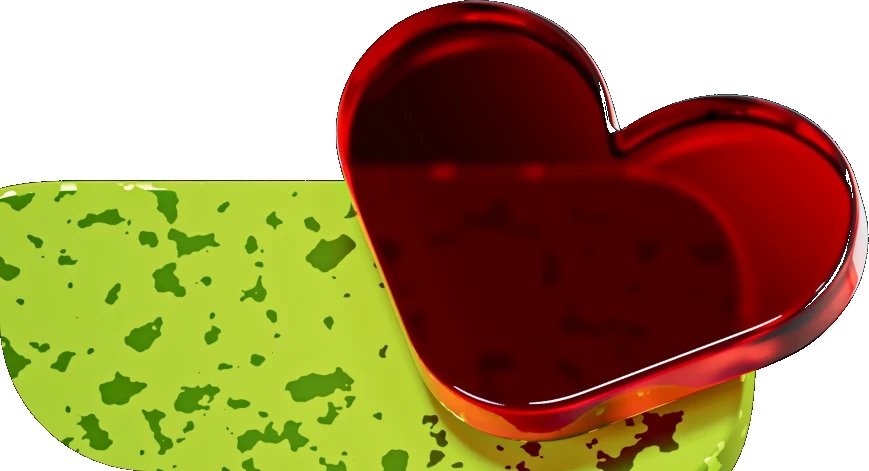
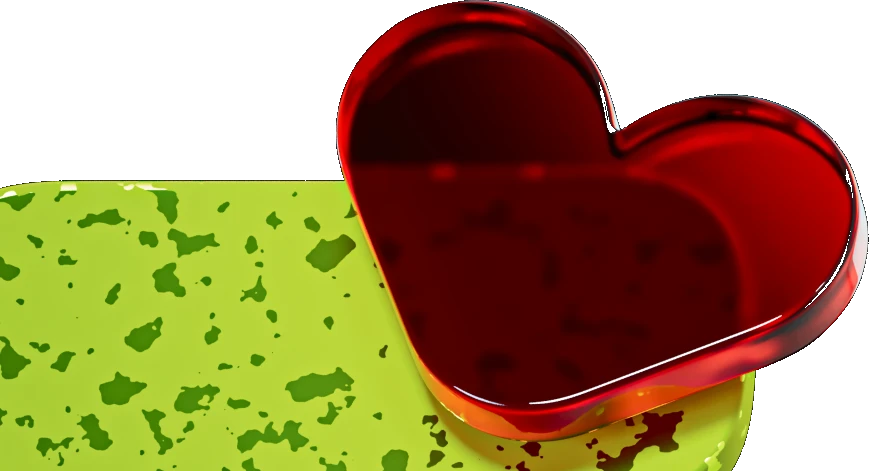
Corner the three re-exported stills and halve the orb
The client took the rounded corners off the heart, the percent and the figure in Figma, so
those three go into the bottom-left corner with no margin; the logo pair keeps its padding.
The orb is half the size and centred, with every distance constant in the shader rescaled
to match.

Changed region(s): [[0.0, 0.7431, 0.1554, 1.0]]

diff --git a/assets/js/tile-shader.js b/assets/js/tile-shader.js
@@ -83,43 +83,42 @@ if (canvas) {
         vec2 uv = (gl_FragCoord.xy - 0.5 * u_res) / size * 2.0;
         vec2 mouse = (u_mouse - 0.5 * u_res) / size * 2.0;
 
-        /* The orb sits low in the tile: the text is at the top and must stay on ink, not on
-           the body of the thing. */
-        uv.y += 0.34;
-        mouse.y += 0.34;
+        /* Centred in the tile since 2026-09-03, on the client's word, and half the size it
+           was — small enough that the text above it still sits on ink. */
 
         float t = u_time * (1.0 + 0.5 * u_hover);
 
         /* Lean toward the pointer, and ripple with it. Both are the hover alone — at rest
-           the orb is centred and smooth. */
-        uv -= 0.16 * u_hover * mouse;
-        uv += 0.022 * u_hover * sin(9.0 * uv.yx + t * 1.6);
+           the orb is centred and smooth. The lean is in uv units, so it shrank with the
+           orb; 0.10 keeps it reading as the same gesture against the smaller body. */
+        uv -= 0.10 * u_hover * mouse;
+        uv += 0.014 * u_hover * sin(14.0 * uv.yx + t * 1.6);
 
         float len = length(uv);
         float ang = atan(uv.y, uv.x);
 
         /* The breathing edge: a slow pulse plus a noise field, so the silhouette is never
            twice the same and never a circle. */
-        float n = fbm(vec3(uv * 1.6, t * 0.30));
-        float radius = 0.52 + 0.030 * sin(t * 0.9) + 0.115 * (n - 0.5) + 0.045 * u_hover;
+        float n = fbm(vec3(uv * 2.8, t * 0.30));
+        float radius = 0.27 + 0.016 * sin(t * 0.9) + 0.060 * (n - 0.5) + 0.024 * u_hover;
 
         /* Distance to the edge, which is what the rim light is attached to. */
         float edge = abs(len - radius);
-        float rim = wash(1.0, 26.0, edge) * smoothstep(radius * 1.55, radius * 0.55, len);
+        float rim = wash(1.0, 52.0, edge) * smoothstep(radius * 1.55, radius * 0.55, len);
 
         /* Two highlights orbiting inside, at different speeds and in opposite directions —
            the "thinking" motion. A third, slower one keeps the body from ever going flat. */
         vec2 p1 = vec2(cos(t * 0.62), sin(t * 0.62)) * radius * 0.62;
         vec2 p2 = vec2(cos(-t * 0.41 + 2.1), sin(-t * 0.41 + 2.1)) * radius * 0.74;
         vec2 p3 = vec2(cos(t * 0.23 + 4.0), sin(t * 0.23 + 4.0)) * radius * 0.35;
-        float l1 = lamp(0.85, 16.0, distance(uv, p1));
-        float l2 = lamp(0.65, 22.0, distance(uv, p2));
-        float l3 = lamp(0.45, 9.0, distance(uv, p3));
+        float l1 = lamp(0.85, 64.0, distance(uv, p1));
+        float l2 = lamp(0.65, 88.0, distance(uv, p2));
+        float l3 = lamp(0.45, 36.0, distance(uv, p3));
 
         /* Body and halo. The body is filled inward from the edge; the halo is what escapes
            it, and it is what makes the tile glow rather than hold a sticker. */
-        float body = smoothstep(radius + 0.02, radius - 0.30, len);
-        float halo = exp(-3.2 * max(len - radius, 0.0) * 6.0);
+        float body = smoothstep(radius + 0.01, radius - 0.15, len);
+        float halo = exp(-3.2 * max(len - radius, 0.0) * 12.0);
 
         vec3 green = vec3(0.651, 0.929, 0.0);   /* #A6ED00 */
         vec3 mint = mix(green, vec3(1.0), 0.55);

diff --git a/assets/css/base.css b/assets/css/base.css
@@ -1171,9 +1171,9 @@ img { display: block; max-width: 100%; height: auto; }
 
      | still    | object    | opaque area | visual side | height |
      | ads      | 750 × 345 | 233k px     | 483         | 24%    |
-     | bloggers | 860 × 433 | 272k px     | 522         | 28%    |
-     | loyalty  | 869 × 471 | 290k px     | 538         | 30%    |
-     | partners | 815 × 489 | 237k px     | 487         | 34%    |
+     | bloggers | 718 × 433 | 237k px     | 487         | 30%    |
+     | loyalty  | 869 × 471 | 295k px     | 543         | 30%    |
+     | partners | 815 × 489 | 240k px     | 490         | 34%    |
 
    A flat height would have made the widest, flattest one (the pair of logos) the heaviest
    thing on the screen and the tallest one the lightest. */
@@ -1194,13 +1194,23 @@ img { display: block; max-width: 100%; height: auto; }
   height: 24%;
 }
 
-.tile__art[data-art="bloggers"] {
-  background-image: url("../images/growth-bloggers.webp");
-  height: 28%;
+/* Three of the four went back to Figma on 2026-09-03 with their rounded corners taken off,
+   and those go **into the corner with no margin at all** — the client's call: "просто воткни
+   с нулевым маржином в левый нижний угол… касается исключительно сердца, процента и
+   человечка с плюсом". The Я/VK pair keeps its padding: it is a pair of logos, not a plate,
+   and it has nothing square to line up with the tile's edges. */
+.tile__art[data-art="bloggers"],
+.tile__art[data-art="loyalty"],
+.tile__art[data-art="partners"] {
+  left: 0;
+  bottom: 0;
 }
 
-/* The heart is back in line with the others: it reached into the corner for one round and
-   the client read that as cramped — "сердце пережалось в угол". */
+.tile__art[data-art="bloggers"] {
+  background-image: url("../images/growth-bloggers.webp");
+  height: 30%;
+}
+
 .tile__art[data-art="loyalty"] {
   background-image: url("../images/growth-loyalty.webp");
   height: 30%;

diff --git a/WORKLOG.md b/WORKLOG.md
@@ -1,5 +1,29 @@
 # Worklog
 
+## 2026-09-03 — three stills into the corner, the orb halved and centred
+
+**What changed.** `assets/images/growth-{loyalty,bloggers,partners}.webp` re-pulled from
+Figma (the client took their rounded corners off), keyed and trimmed to their objects.
+`assets/css/base.css`: those three sit at `left: 0; bottom: 0` — no margin — while the Я/VK
+pair keeps the 24px padding; bloggers' height 28% → 30% after the re-export changed its box.
+`assets/js/tile-shader.js`: orb radius 0.52 → 0.27, the vertical offset gone, and every
+distance constant rescaled with it (rim falloff ×2, lamps ×4, halo ×2, lean 0.16 → 0.10).
+`CONTEXT.md` updated.
+
+**Why.** Client's two notes: those three stills go into the bottom-left corner with nothing
+around them, and the orb should be about half the size and centred in its tile.
+
+**How verified.** Live page, freshly loaded stylesheet, 1440×900 and 1920×1080. The three
+measure 0px from the left edge and 0px from the bottom on both widths; the Я/VK pair still
+24/24; visual sides 99, 101, 99, 100 — still balanced; none overlaps its text. The orb's lit
+centroid is (0.496, 0.500) of the canvas and its span 29% of the width against 52% before —
+centred and halved. It still answers the pointer: centroid moves to 0.457 with the pointer
+left, 0.537 right, 0.546 up, 0.466 down, and the lit area grows from 6232 to ~6730 samples.
+Text stays on ink: luminance 22-26 across the strip it occupies. No 4xx.
+
+**Left undone.** Nothing on this section. **The motion still has not been seen** — the
+Browser pane is hidden here, so every reading came from hand-driven single frames.
+
 ## 2026-09-03 — two product cards around the marketplaces frame
 
 **What changed.** `index.html`: two `.frame-chip` divs in the marketplaces slide.
